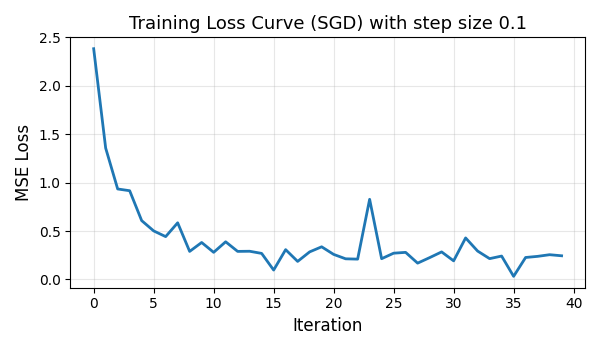
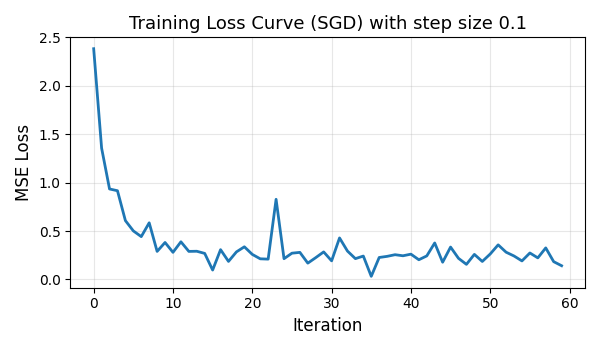
update

diff --git a/6_lr_scheduling.py b/6_lr_scheduling.py
@@ -31,19 +31,27 @@ class LinReg(nn.Module):
 model = LinReg()
 model.train()
 #%%
-lr = 0.1 # learning rate
+lr = 1 # initial learning rate
 optimizer = torch.optim.SGD(model.parameters(), lr=lr)
+
+### LR scheduling
+lam = 0.1
+print(f"gamma: {np.exp(-lam):.4f}")
+scheduler = torch.optim.lr_scheduler.ExponentialLR(
+    optimizer, gamma=np.exp(-lam)
+)
 
 loss_function = nn.MSELoss()
 #%%
-epochs = 15
+epochs = 100
 
-xs, ys, loss_history = [], [], []
+xs, ys, loss_history, lr_history = [], [], [], []
 for epoch in range(epochs):
     for x_batch, y_batch in loader:
         ### 현재 parameter의 value
         xs.append(model.linear.weight.detach().item())
         ys.append(model.linear.bias.detach().item())
+        lr_history.append(optimizer.param_groups[0]["lr"])  # 현재 lr 기록
         
         optimizer.zero_grad()
 
@@ -54,6 +62,9 @@ for epoch in range(epochs):
 
         loss.backward()
         optimizer.step()
+
+    ### exponential decay 적용 (epoch 기준)
+    scheduler.step()
 #%%
 ### 학습 경과에 따른 손실함수 확인
 plt.figure(figsize=(6, 3.5))
@@ -61,11 +72,24 @@ plt.figure(figsize=(6, 3.5))
 plt.plot(loss_history, linewidth=2)
 plt.xlabel("Iteration", fontsize=12)
 plt.ylabel("MSE Loss", fontsize=12)
-plt.title(f"Training Loss Curve (SGD) with step size {lr}", fontsize=13)
+plt.title("Training Loss Curve (SGD) with Exponential LR Decay", fontsize=13)
 
 plt.grid(alpha=0.3)
 plt.tight_layout()
-plt.savefig(f"./fig/3_lrplot_{int(lr*10):02d}.png")
+plt.savefig("./fig/3_loss_with_lr_scheduling.png")
+plt.show()
+plt.close()
+#%%
+plt.figure(figsize=(6, 3.5))
+
+plt.plot(lr_history, linewidth=2, color="orange")
+plt.xlabel("Iteration", fontsize=12)
+plt.ylabel("Learning Rate", fontsize=12)
+plt.title("LR with Exponential Decay",fontsize=13)
+
+plt.grid(alpha=0.3)
+plt.tight_layout()
+plt.savefig("./fig/3_lr_with_decay.png")
 plt.show()
 plt.close()
 #%%
@@ -92,7 +116,7 @@ plt.title(f"SGD (minibatch) with step size {lr}", fontsize=16)
 plt.xlabel("w", fontsize=14)
 plt.ylabel("b", fontsize=14)
 plt.tight_layout()
-plt.savefig(f"./fig/3_contour_{int(lr*10):02d}.png")
+plt.savefig("./fig/3_contour_with_lar_scheduling.png")
 plt.show()
 plt.close()
 #%%
